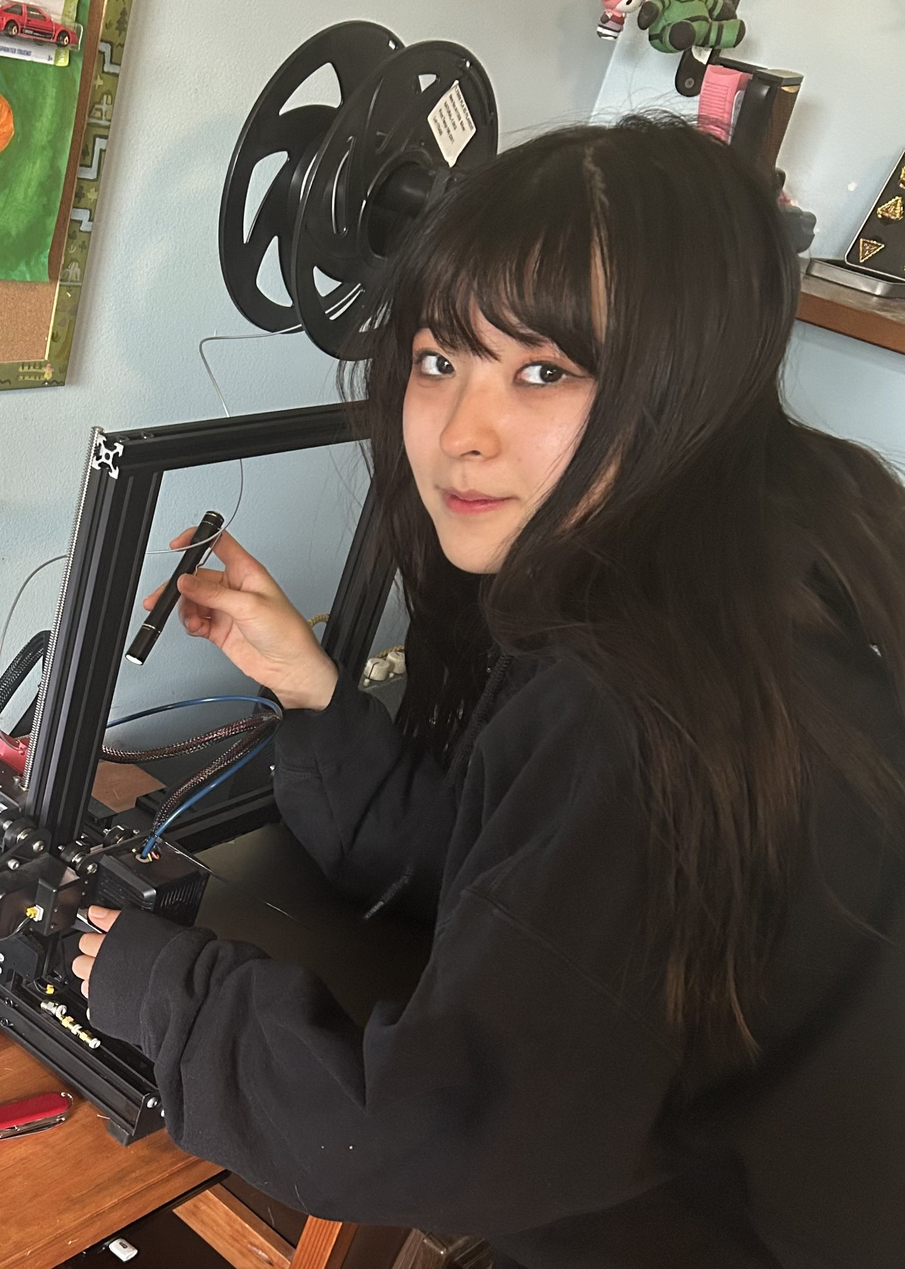
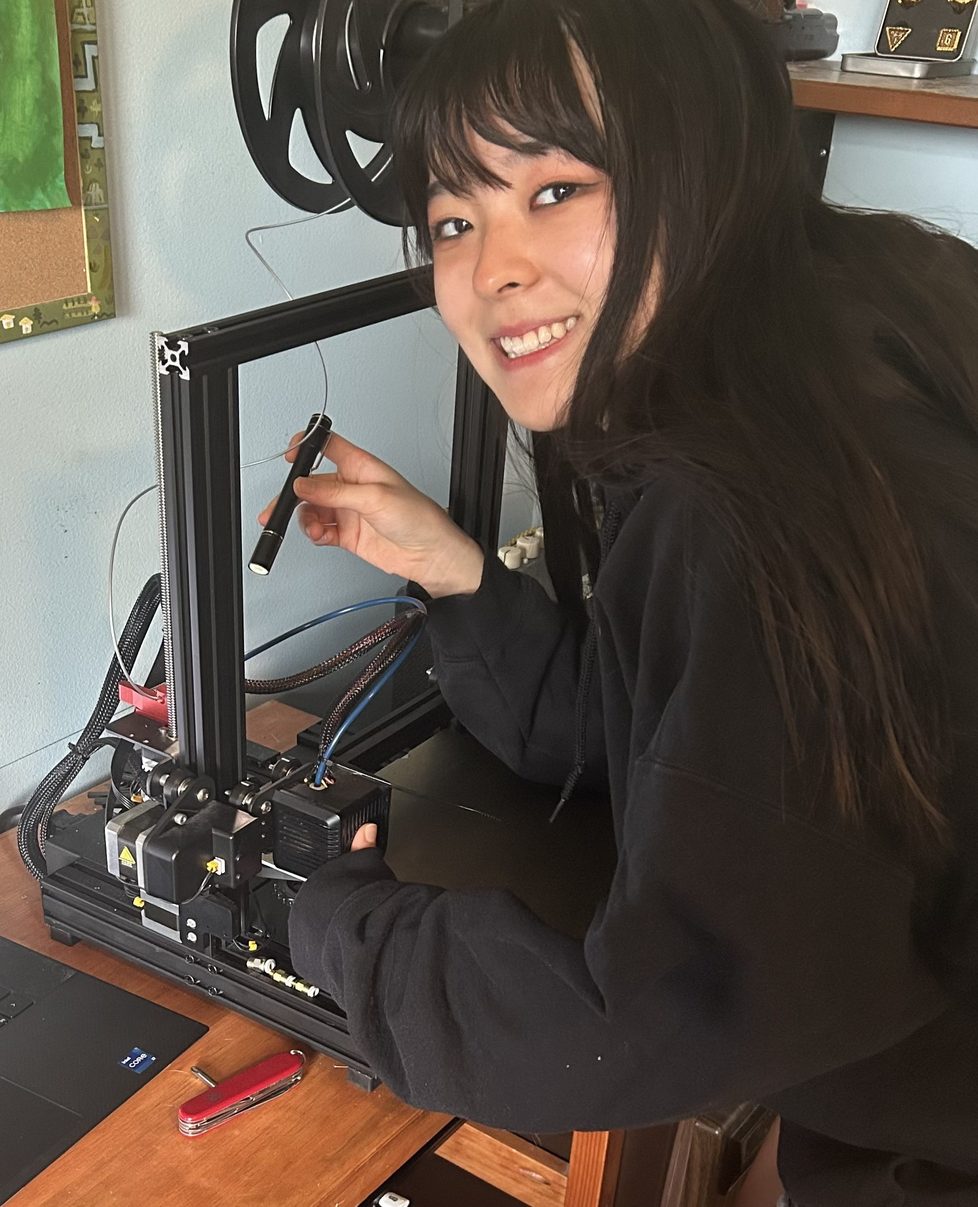
Changes to be committed: 	modified:   public/images/aboutme.jpg 	modified:   src/components/About/AboutStyles.js 	modified:   src/constants/constants.js 	modified:   src/pages/projects/surgicalinstrument.js

diff --git a/src/constants/constants.js b/src/constants/constants.js
@@ -10,12 +10,12 @@ export const projects = [
       tags: ['JavaScript', 'React', 'Node'],
     id: 0,
     slug: 'portfolio',
-    short_description: 'I learned JavaScript and React with no prior knowledge to design this very website!',
+    short_description: 'I learned React with no prior knowledge to design this very website!',
     date: '2023 - Present',
   },
   {
     title: 'Product Development Co-Op',
-    description:"As a co-op at DePuy Synthes*, I played a role in the design and development of new cutting edge orthopedic surgical instruments. Collaborating closely " +
+    description:"As a co-op at Johnson & Johnson, I played a role in the design and development of new cutting edge orthopedic surgical instruments. Collaborating closely " +
     "with the team, I spent hours researching different surgical techniques and actively seeking feedback from coworkers, enabling me to make insightful improvements to the " +
     "instruments after many prototypes. During surgeon labs, my designs garnered positive feedback for usability and performance. Along with my design work, " +
     "I also aided in essential mechanical testing for numerous devices, and independently took on key roles where needed.",
@@ -23,7 +23,7 @@ export const projects = [
     tags: ['Creo', 'ANSYS'],
     id: 1,
     slug: 'surgicalinstrument',
-    short_description: 'I designed and tested surgical instruments during my co-op at DePuy Synthes.',
+    short_description: 'I designed and tested surgical instruments during my co-op at Johnson & Johnson.',
     date: '2023'
   },
   {

diff --git a/src/pages/projects/surgicalinstrument.js b/src/pages/projects/surgicalinstrument.js
@@ -13,7 +13,7 @@ const SurgicalInstrument = () => {
           <Balancer>
           <ProjectSectionTitle>Overview</ProjectSectionTitle>
             <ProjectText>
-            I was a Product Development co-op at DePuy Synthes during my second year at Northeastern University from January to July.* During my time
+            I was a Product Development co-op at Johnson & Johnson's orthopedic company - DePuy Synthes.* During my time
             there I helped out with two teams mainly: one relating to wrist fixation and the other for general small bones in the body. Projects included
             designing and optimizing instruments, leading mechanical testing on parts, and independent leadership roles.
             <br /> <br />

diff --git a/src/components/About/AboutStyles.js b/src/components/About/AboutStyles.js
@@ -17,7 +17,6 @@ export const AboutText = styled.p`
 
 export const JennyImage = styled.img`
   max-width: 500px;
-  height: 700px;
   border: solid 3px;
   color: #000000;
   margin: 3rem;
